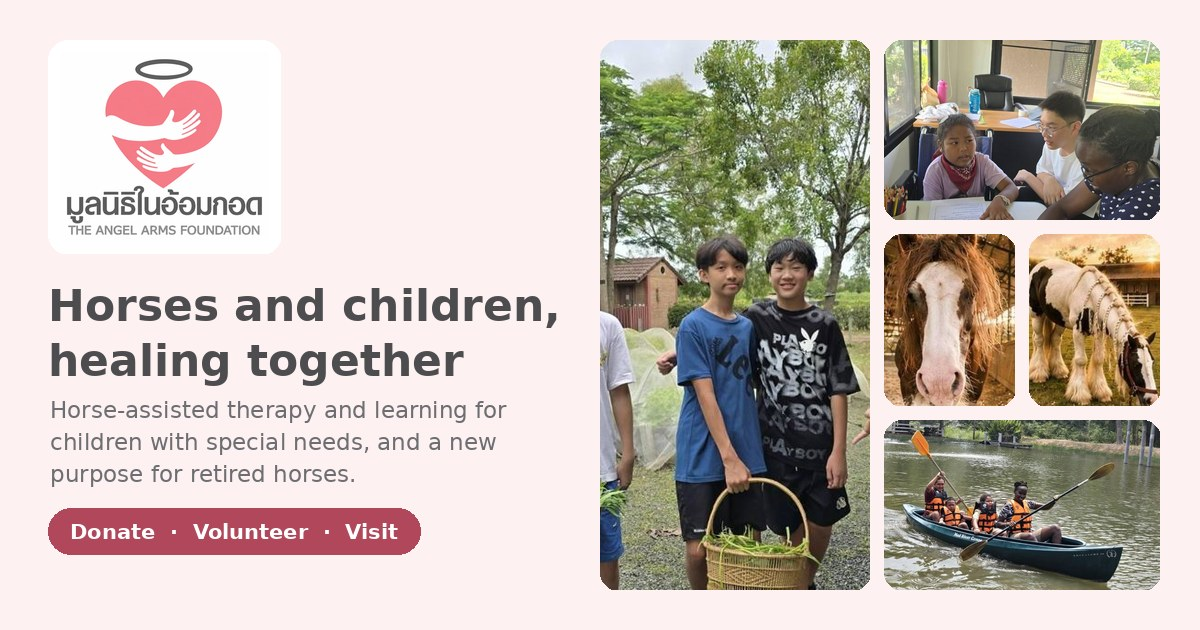
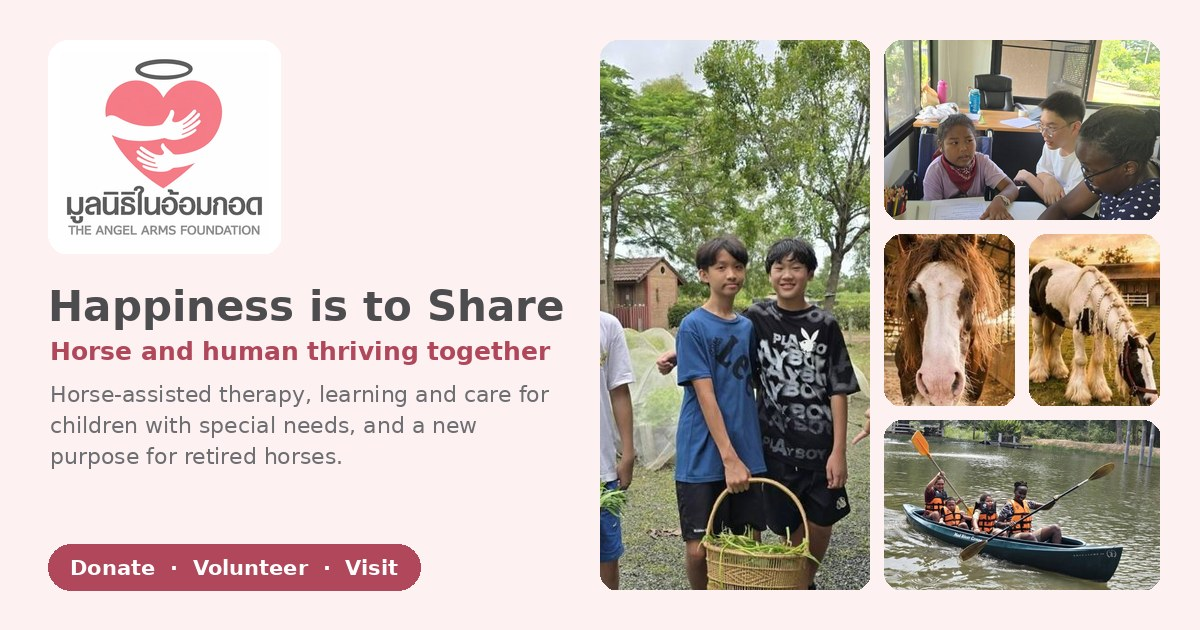
New headline: 'Happiness is to Share' / 'Horse and human thriving together'
Headline plus a new headline_sub in data/site.json, shown on the home
page and in link-preview titles. Adds scripts/make_share_image.py to
rebuild static/img/share.jpg from the headline (regenerated here).

Claude-Session: https://claude.ai/code/session_01AaPRwojYiVyxCgWuJqAKQj

Changed region(s): [[0.0308, 0.4524, 0.4933, 0.9651]]

diff --git a/templates/base.html b/templates/base.html
@@ -8,7 +8,7 @@
   <!-- Link previews (Facebook, LINE, X, etc.) -->
   <meta property="og:type" content="website">
   <meta property="og:site_name" content="{{ site.name }}">
-  <meta property="og:title" content="{{ site.name }} · {{ site.headline }}">
+  <meta property="og:title" content="{{ site.name }} · {{ site.headline }}{% if site.headline_sub %}: {{ site.headline_sub }}{% endif %}">
   <meta property="og:description" content="{{ site.tagline }}">
   <meta property="og:url" content="{{ request.url }}">
   <meta property="og:image" content="{{ url_for('static', filename='img/share.jpg', _external=True) }}">

diff --git a/static/css/style.css b/static/css/style.css
@@ -306,3 +306,4 @@ section[id], article[id] { scroll-margin-top: 84px; }
 .story-loop { text-align: center; margin: 32px auto 0; max-width: 640px; font-weight: 600; color: var(--rose);
   background: var(--pink-soft); border-radius: 999px; padding: 12px 20px; }
 .story-loop span { font-size: 1.3rem; margin-right: 6px; }
+.hero-sub { font-family: "Prompt", system-ui, sans-serif; font-size: clamp(1.2rem, 2.2vw, 1.6rem); font-weight: 500; color: var(--rose); margin: -4px 0 14px; }

diff --git a/templates/index.html b/templates/index.html
@@ -5,6 +5,7 @@
     <div class="hero-text">
       <img class="hero-logo-sm" src="{{ url_for('static', filename='img/logo.png') }}" alt="{{ site.name_th }}, {{ site.name }}" width="170" height="154">
       <h1>{{ site.headline }}</h1>
+      {% if site.headline_sub %}<p class="hero-sub">{{ site.headline_sub }}</p>{% endif %}
       <p class="lead">{{ site.tagline }}</p>
       <p class="hero-cta">
         <a class="btn btn-donate" href="{{ url_for('donate') }}">Donate</a>

diff --git a/scripts/make_share_image.py b/scripts/make_share_image.py
@@ -1,0 +1,132 @@
+"""Rebuild static/img/share.jpg, the 1200x630 picture shown when the site's
+link is shared on Facebook, LINE, X, etc.
+
+It uses the headline and sub-headline from data/site.json, the logo and a
+few site photos, so run it again whenever you change the headline:
+
+    pip install pillow            # once
+    python scripts/make_share_image.py
+"""
+
+import json
+from pathlib import Path
+
+try:
+    from PIL import Image, ImageDraw, ImageFont, ImageOps
+except ImportError:
+    raise SystemExit("Pillow is needed: run  pip install pillow  and try again.")
+
+ROOT = Path(__file__).resolve().parent.parent
+IMG = ROOT / "static" / "img"
+
+W, H = 1200, 630
+TEXT_MAX_W = 520
+BG = (253, 241, 242)
+ROSE = (176, 71, 90)
+INK = (77, 77, 79)
+MUTED = (109, 110, 113)
+WHITE = (255, 255, 255)
+
+FONT_DIR = Path("/usr/share/fonts/truetype/dejavu")
+BOLD = FONT_DIR / "DejaVuSans-Bold.ttf"
+REGULAR = FONT_DIR / "DejaVuSans.ttf"
+
+# (photo, x, y, width, height) for the mosaic on the right-hand side
+MOSAIC = [
+    ("volunteer/farm-garden.jpg", 600, 40, 270, 550),
+    ("volunteer/teaching.jpg", 884, 40, 276, 180),
+    ("horses/horse2.jpg", 884, 234, 131, 172),
+    ("horses/horse4.jpg", 1029, 234, 131, 172),
+    ("volunteer/kayaking.jpg", 884, 420, 276, 170),
+]
+
+
+def font(path, size):
+    try:
+        return ImageFont.truetype(str(path), size)
+    except OSError:  # DejaVu not installed: fall back to Pillow's own font
+        return ImageFont.load_default(size)
+
+
+def rounded(im, radius):
+    mask = Image.new("L", im.size, 0)
+    ImageDraw.Draw(mask).rounded_rectangle((0, 0, *im.size), radius, fill=255)
+    out = Image.new("RGBA", im.size)
+    out.paste(im, (0, 0), mask)
+    return out
+
+
+def wrap(draw, text, fnt, max_w):
+    """Split text into lines that fit max_w pixels."""
+    lines, line = [], ""
+    for word in text.split():
+        trial = f"{line} {word}".strip()
+        if draw.textlength(trial, font=fnt) <= max_w:
+            line = trial
+        else:
+            lines.append(line)
+            line = word
+    lines.append(line)
+    return lines
+
+
+def main():
+    site = json.loads((ROOT / "data" / "site.json").read_text(encoding="utf-8"))
+    img = Image.new("RGB", (W, H), BG)
+    draw = ImageDraw.Draw(img)
+
+    for path, x, y, w, h in MOSAIC:
+        photo = ImageOps.fit(Image.open(IMG / path).convert("RGB"), (w, h), Image.LANCZOS)
+        tile = rounded(photo, 18)
+        img.paste(tile, (x, y), tile)
+
+    logo = Image.open(IMG / "logo.png").convert("RGB")
+    logo.thumbnail((210, 190), Image.LANCZOS)
+    card = Image.new("RGB", (logo.width + 24, logo.height + 24), WHITE)
+    card.paste(logo, (12, 12))
+    card = rounded(card, 20)
+    img.paste(card, (48, 40), card)
+    y = 40 + card.height + 28
+
+    # Headline: as large as fits on one line (max 58px)
+    headline = site["headline"]
+    size = 58
+    while draw.textlength(headline, font=font(BOLD, size)) > TEXT_MAX_W and size > 30:
+        size -= 1
+    head_font = font(BOLD, size)
+    draw.text((48, y), headline, font=head_font, fill=INK)
+    y += int(size * 1.3)
+
+    sub = site.get("headline_sub", "")
+    if sub:
+        # One line if it fits at 24px or more, otherwise wrap at 30px
+        sub_size = 30
+        while draw.textlength(sub, font=font(BOLD, sub_size)) > TEXT_MAX_W and sub_size > 24:
+            sub_size -= 1
+        sub_font = font(BOLD, sub_size)
+        for line in wrap(draw, sub, sub_font, TEXT_MAX_W):
+            draw.text((50, y), line, font=sub_font, fill=ROSE)
+            y += int(sub_size * 1.35)
+        y += 12
+
+    body_font = font(REGULAR, 22)
+    for line in wrap(draw, site["tagline"], body_font, TEXT_MAX_W):
+        draw.text((50, y), line, font=body_font, fill=MUTED)
+        y += 31
+
+    pill_font = font(BOLD, 21)
+    label = "Donate  ·  Volunteer  ·  Visit"
+    y = max(y + 16, H - 40 - 46)  # sit on the bottom edge, level with the photos
+    tw = draw.textlength(label, font=pill_font)
+    draw.rounded_rectangle((48, y, 48 + tw + 44, y + 46), 23, fill=ROSE)
+    draw.text((70, y + 11), label, font=pill_font, fill=WHITE)
+    if y + 46 > H - 20:
+        print("Warning: text is too long and may be cut off; shorten the tagline.")
+
+    out = IMG / "share.jpg"
+    img.save(out, quality=88, optimize=True)
+    print(f"Saved {out.relative_to(ROOT)}")
+
+
+if __name__ == "__main__":
+    main()

diff --git a/tests/test_app.py b/tests/test_app.py
@@ -131,6 +131,8 @@ def test_apply_link_preselects_program(client):
 def test_landing_explains_foundation_and_has_share_preview(client):
     html = client.get("/").get_data(as_text=True)
     assert "How it works" in html
+    assert "Happiness is to Share" in html
+    assert "Horse and human thriving together" in html
     assert "Horses get a second chance" in html
     assert 'property="og:image" content="http://localhost/static/img/share.jpg"' in html
     assert client.get("/static/img/share.jpg").status_code == 200

diff --git a/README.md b/README.md
@@ -143,6 +143,9 @@ You can also fill in `bank_transfer` → `account_number` or `promptpay`. They o
   used in the header and browser tab. To update the logo, replace these files and keep the same names.
 - **Horse photos:** the "Meet our Guardian Angels" photos are in `static/img/horses/`. To add or change them, put the photo in that folder
   and list it under `guardian_angels` → `photos` in `data/site.json`.
+- **Share picture:** `static/img/share.jpg` is the image shown when the site's link is shared on Facebook or LINE.
+  It includes the headline, so after changing `headline` / `headline_sub` in `data/site.json`, rebuild it with
+  `pip install pillow` (once) and then `python scripts/make_share_image.py`.
 - **Colours:** at the top of `static/css/style.css`, under `:root`. They come from the logo (`--pink`, `--rose`, `--ink`)
   and from the Dream / Hope / Friends / Love booth colours.
 
